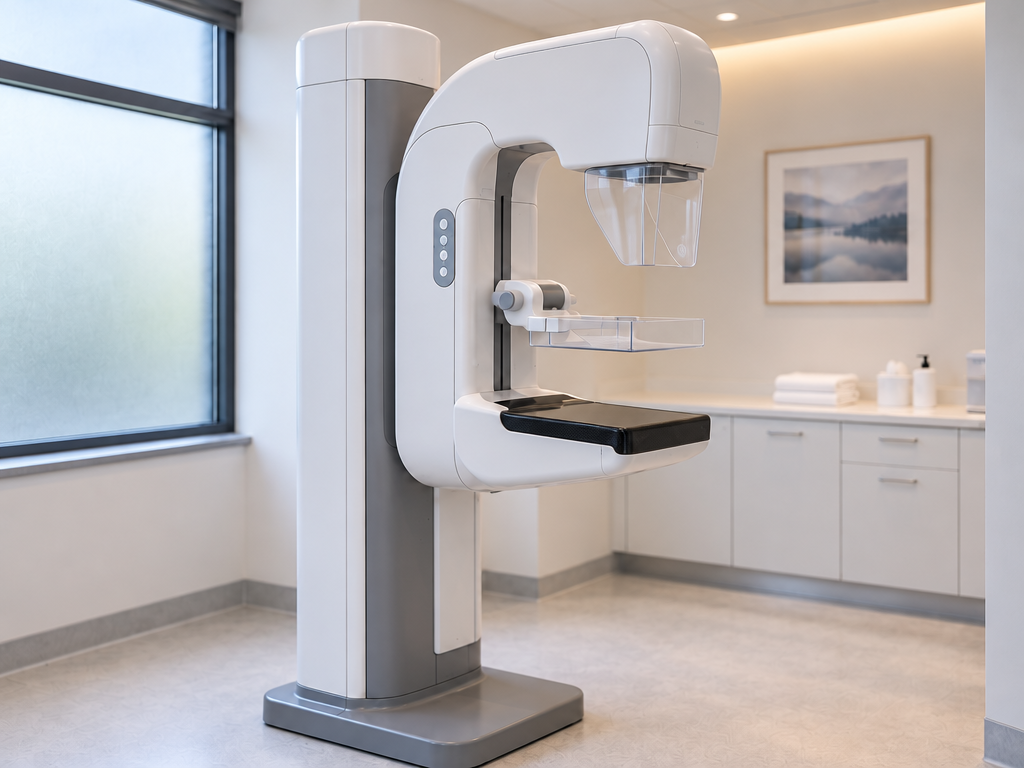
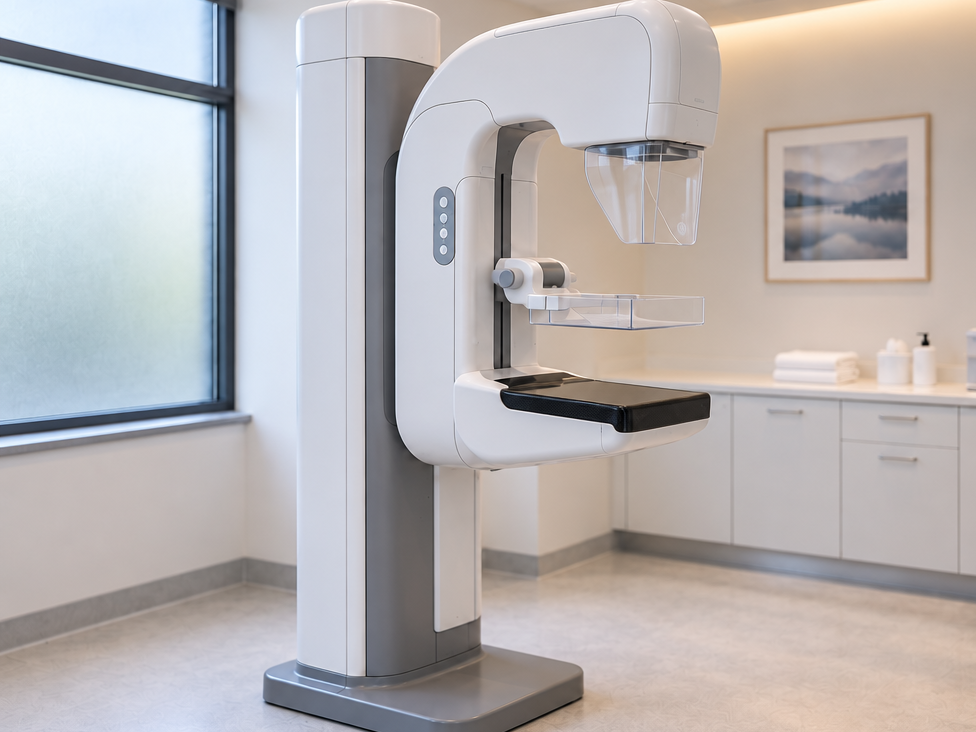
fix(mammographie): Wandkante rechts aus dem Gerätebild entfernt; Bild als KI-generiert gekennzeichnet (Badge + Alt-Text)

diff --git a/src/components/ui/Hero.jsx b/src/components/ui/Hero.jsx
@@ -2,9 +2,11 @@ import { cx } from './cx';
 import Container from './Container';
 import { Eyebrow, Heading, Lead } from './Heading';
 import Breadcrumbs from './Breadcrumbs';
+import AiImageBadge from './AiImageBadge';
 
 // Wiederverwendbarer Hero-Bereich für Start- und Unterseiten.
-//   image: { src, srcSet?, sizes?, alt, width?, height? } – optional; ohne Bild einspaltig.
+//   image: { src, srcSet?, sizes?, alt, width?, height?, ai? } – optional; ohne Bild einspaltig.
+//          ai: true = KI-generiertes Bild → sichtbare Kennzeichnung unten links (AiImageBadge).
 //   actions: Schaltflächen (z. B. <BookingButton/>, <PhoneButton/>)
 //   breadcrumbs: [{ name, href? }] – Brotkrumen über der Überschrift
 //   highlight: gut sichtbarer Hinweis direkt unter der H1 (z. B. „Ohne Zuweisung · mit e-card …“)
@@ -85,6 +87,7 @@ const Hero = ({ breadcrumbs, eyebrow, title, highlight, status, lead, keyMessage
                 className="h-full w-full object-cover"
               />
             )}
+            {!imageSlot && image?.ai && <AiImageBadge />}
           </div>
         )}
       </Container>

diff --git a/src/pages/Home.jsx b/src/pages/Home.jsx
@@ -5,6 +5,7 @@ import Section from '../components/ui/Section';
 import Card from '../components/ui/Card';
 import ServiceCard from '../components/ui/ServiceCard';
 import ImagePlaceholder from '../components/ui/ImagePlaceholder';
+import AiImageBadge from '../components/ui/AiImageBadge';
 import CTASection from '../components/ui/CTASection';
 import Button, { buttonClasses } from '../components/ui/Button';
 import { SectionHeading } from '../components/ui/Heading';
@@ -41,8 +42,13 @@ const FEATURED = [
     title: 'Mammographie & Brustgesundheit',
     text: SCREENING_HOME_CARD,
     cta: 'Mammographie-Termin buchen',
-    // Reales Mammographiegerät der Praxis (Foto der Praxis, 11.10.2026)
-    media: <Photo name="mammographie-geraet" alt={IMAGE_BRIEFS.mammoDevice.alt} position="object-top" />,
+    // KI-generiertes Bild (11.10.2026), sichtbar gekennzeichnet
+    media: (
+      <div className="relative">
+        <Photo name="mammographie-geraet" alt={IMAGE_BRIEFS.mammoDevice.aiAlt} position="object-top" />
+        <AiImageBadge />
+      </div>
+    ),
   },
   {
     key: 'knochendichte',

diff --git a/src/data/imageBriefs.js b/src/data/imageBriefs.js
@@ -7,8 +7,10 @@ export const IMAGE_BRIEFS = {
     ratio: '4:3',
     minSize: '1600 × 1200 px',
     alt: 'Mammographiegerät im Untersuchungsraum von Röntgen am Kai',
-    // Erledigt 11.10.2026: Foto der Praxis eingebaut (assets-src/images/mammographie-geraet.png, 1024 × 768 –
-    // kleiner als 1600 × 1200; bei Vorliegen des Originals einfach die Vorlage ersetzen und npm run images).
+    // 11.10.2026: übergangsweise KI-generiertes Bild eingebaut (assets-src/images/mammographie-geraet.png,
+    // 976 × 732, rechte Wandkante abgeschnitten) – sichtbar gekennzeichnet, Alt-Text siehe aiAlt.
+    // Wird es durch ein echtes Foto ersetzt: Vorlage tauschen, npm run images, Kennzeichnung (ai) entfernen.
+    aiAlt: 'KI-generierte Darstellung eines Mammographiegeräts in einem hellen Untersuchungsraum',
   },
   care: {
     motif: 'Freundliche Betreuungssituation: Radiologietechnologin erklärt einer bekleideten Patientin den Ablauf (Gespräch, keine Untersuchungsszene, keine erkennbaren Gesichter ohne Einwilligung).',

diff --git a/src/pages/MammographiePage.jsx b/src/pages/MammographiePage.jsx
@@ -63,14 +63,15 @@ const MammographiePage = () => {
           </a>
         }
         image={{
-          // Reales Mammographiegerät der Praxis (Foto der Praxis, 11.10.2026)
+          // KI-generiertes Bild (11.10.2026), sichtbar gekennzeichnet
           src: imageUrl('mammographie-geraet'),
           srcSet: imageSrcSet('mammographie-geraet'),
           sizes: '(max-width: 1023px) 100vw, 50vw',
-          alt: IMAGE_BRIEFS.mammoDevice.alt,
-          width: 1024,
-          height: 768,
+          alt: IMAGE_BRIEFS.mammoDevice.aiAlt,
+          width: 976,
+          height: 732,
           priority: true,
+          ai: true,
         }}
       />
 

diff --git a/src/components/ui/AiImageBadge.jsx b/src/components/ui/AiImageBadge.jsx
@@ -1,0 +1,13 @@
+// Kennzeichnung KI-generierter Bilder (Transparenz). Liegt unten links über dem Bild.
+// aria-hidden: Der Alt-Text des Bildes nennt die KI-Erstellung bereits – keine doppelte Ansage.
+const AiImageBadge = ({ text = 'KI-generiertes Bild' }) => (
+  <span
+    aria-hidden="true"
+    data-ai-badge=""
+    className="pointer-events-none absolute bottom-2 left-2 rounded-md bg-slate-900/80 px-2 py-1 text-xs font-medium leading-none text-white"
+  >
+    {text}
+  </span>
+);
+
+export default AiImageBadge;

diff --git a/tests/e2e_mammographie.py b/tests/e2e_mammographie.py
@@ -102,7 +102,9 @@ with sync_playwright() as p:
     # Gerätefoto der Praxis (seit 11.10.2026) statt Platzhalter im Hero
     check(not any("reale Mammographiegerät" in x for x in phs), "kein Platzhalter mehr für das Mammographiegerät")
     hero = [s for s, a in imgs if s and "mammographie-geraet" in s]
-    check(len(hero) == 1 and any(a == "Mammographiegerät im Untersuchungsraum von Röntgen am Kai" for s, a in imgs if s and "mammographie-geraet" in s), f"Gerätefoto im Hero mit Alt-Text ({hero})")
+    check(len(hero) == 1 and any(a and a.startswith("KI-generierte Darstellung") for s, a in imgs if s and "mammographie-geraet" in s), f"KI-Bild im Hero mit Alt-Text ({hero})")
+    badge = pg.eval_on_selector_all("main [data-ai-badge]", "es => es.map(e => [e.textContent, getComputedStyle(e).display])")
+    check(badge == [["KI-generiertes Bild", "block"]] or (len(badge) == 1 and badge[0][0] == "KI-generiertes Bild" and badge[0][1] != "none"), f"KI-Kennzeichnung sichtbar ({badge})")
     # interne Links → HTTP 200
     hrefs = sorted(set(pg.eval_on_selector_all("a[href]", "as => as.map(a => a.href)")))
     internal = [h for h in hrefs if h.startswith(BASE)]
